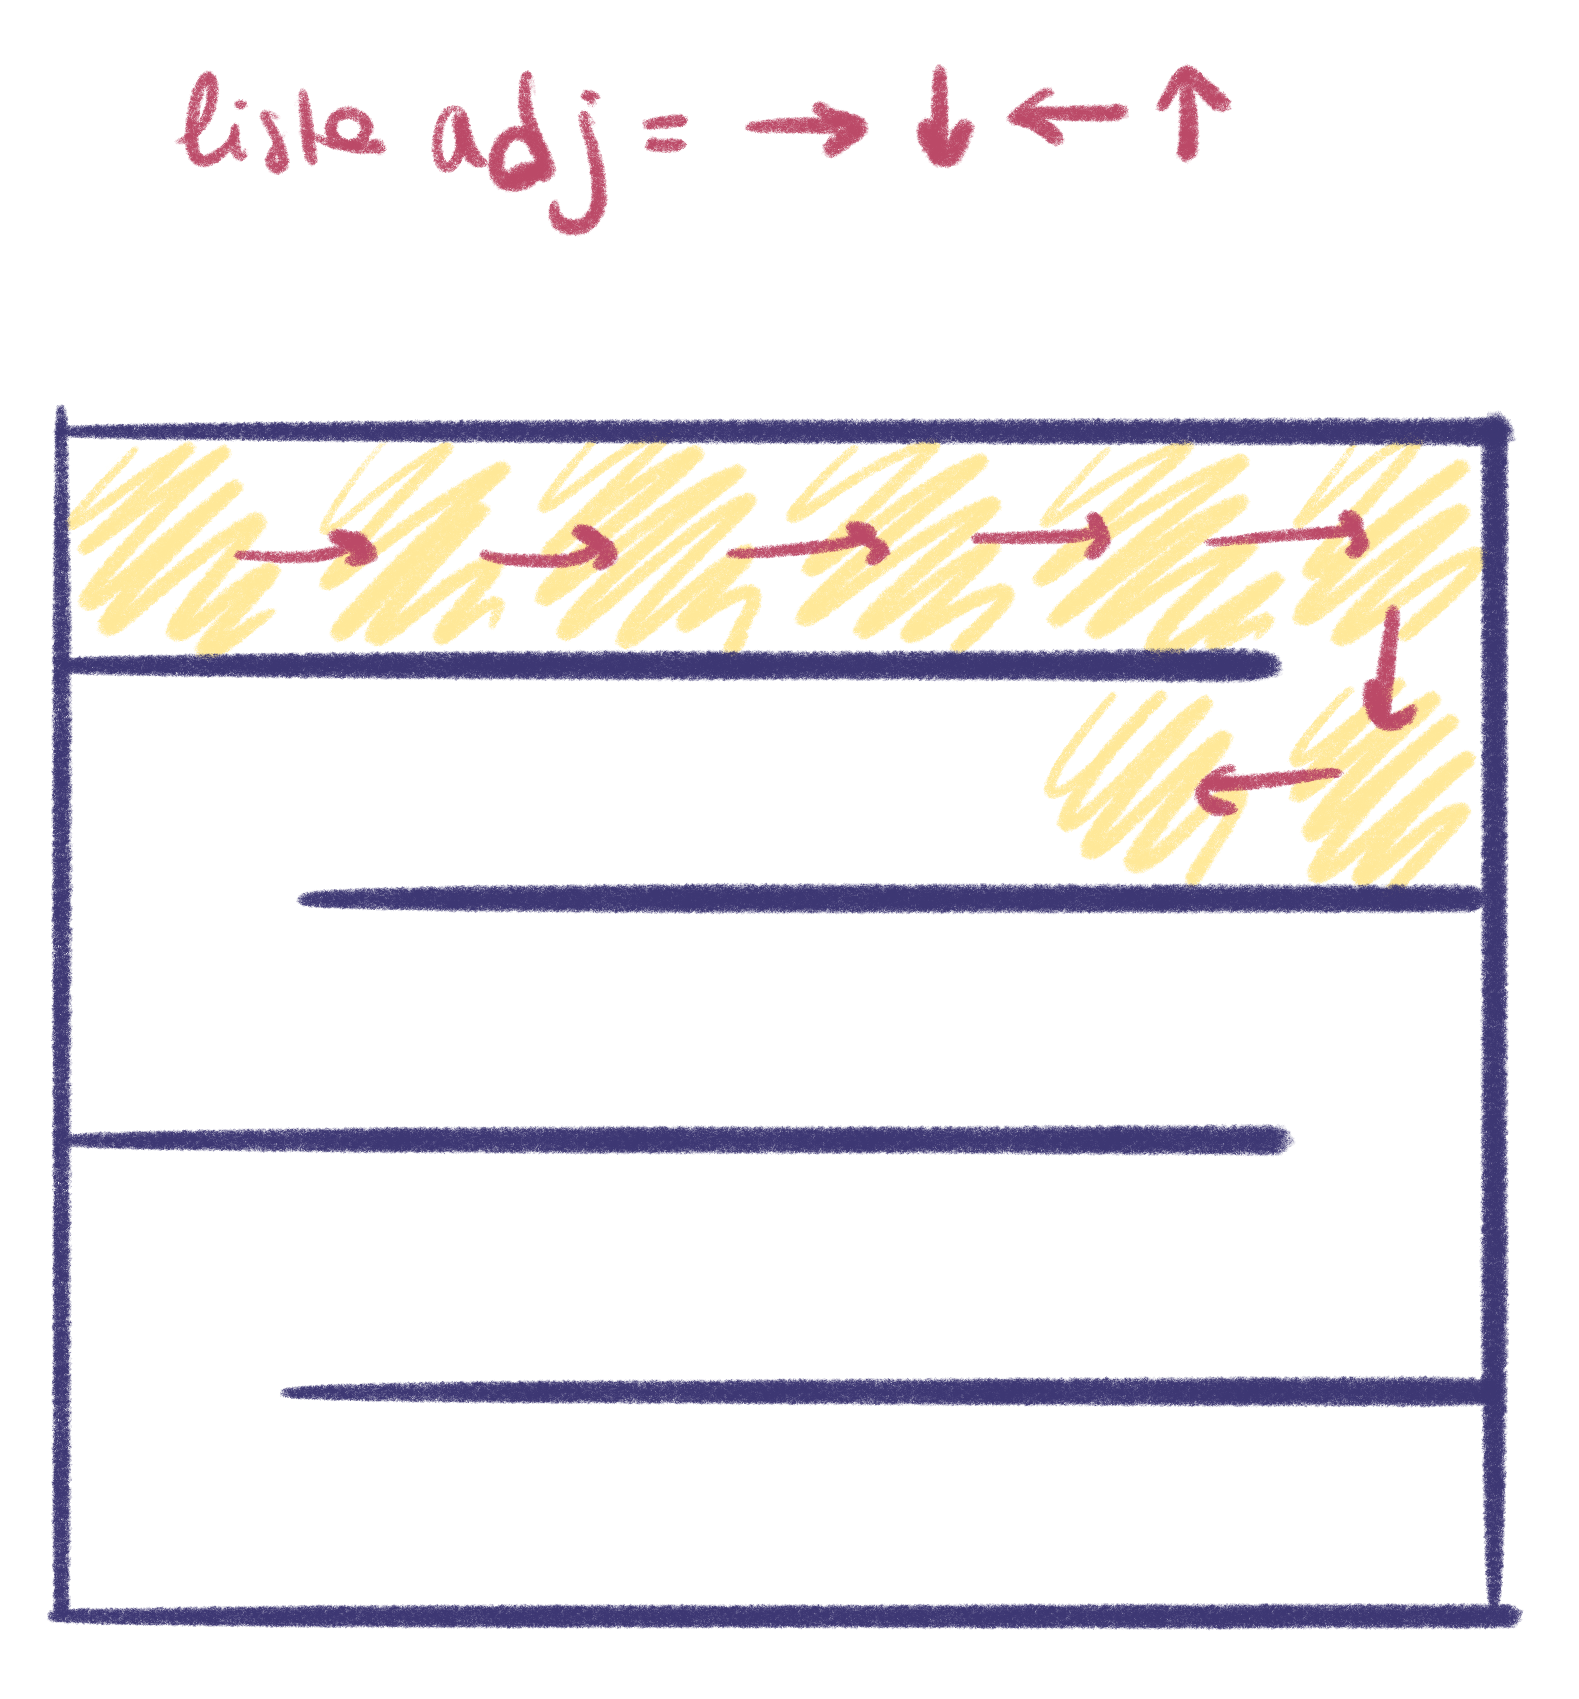
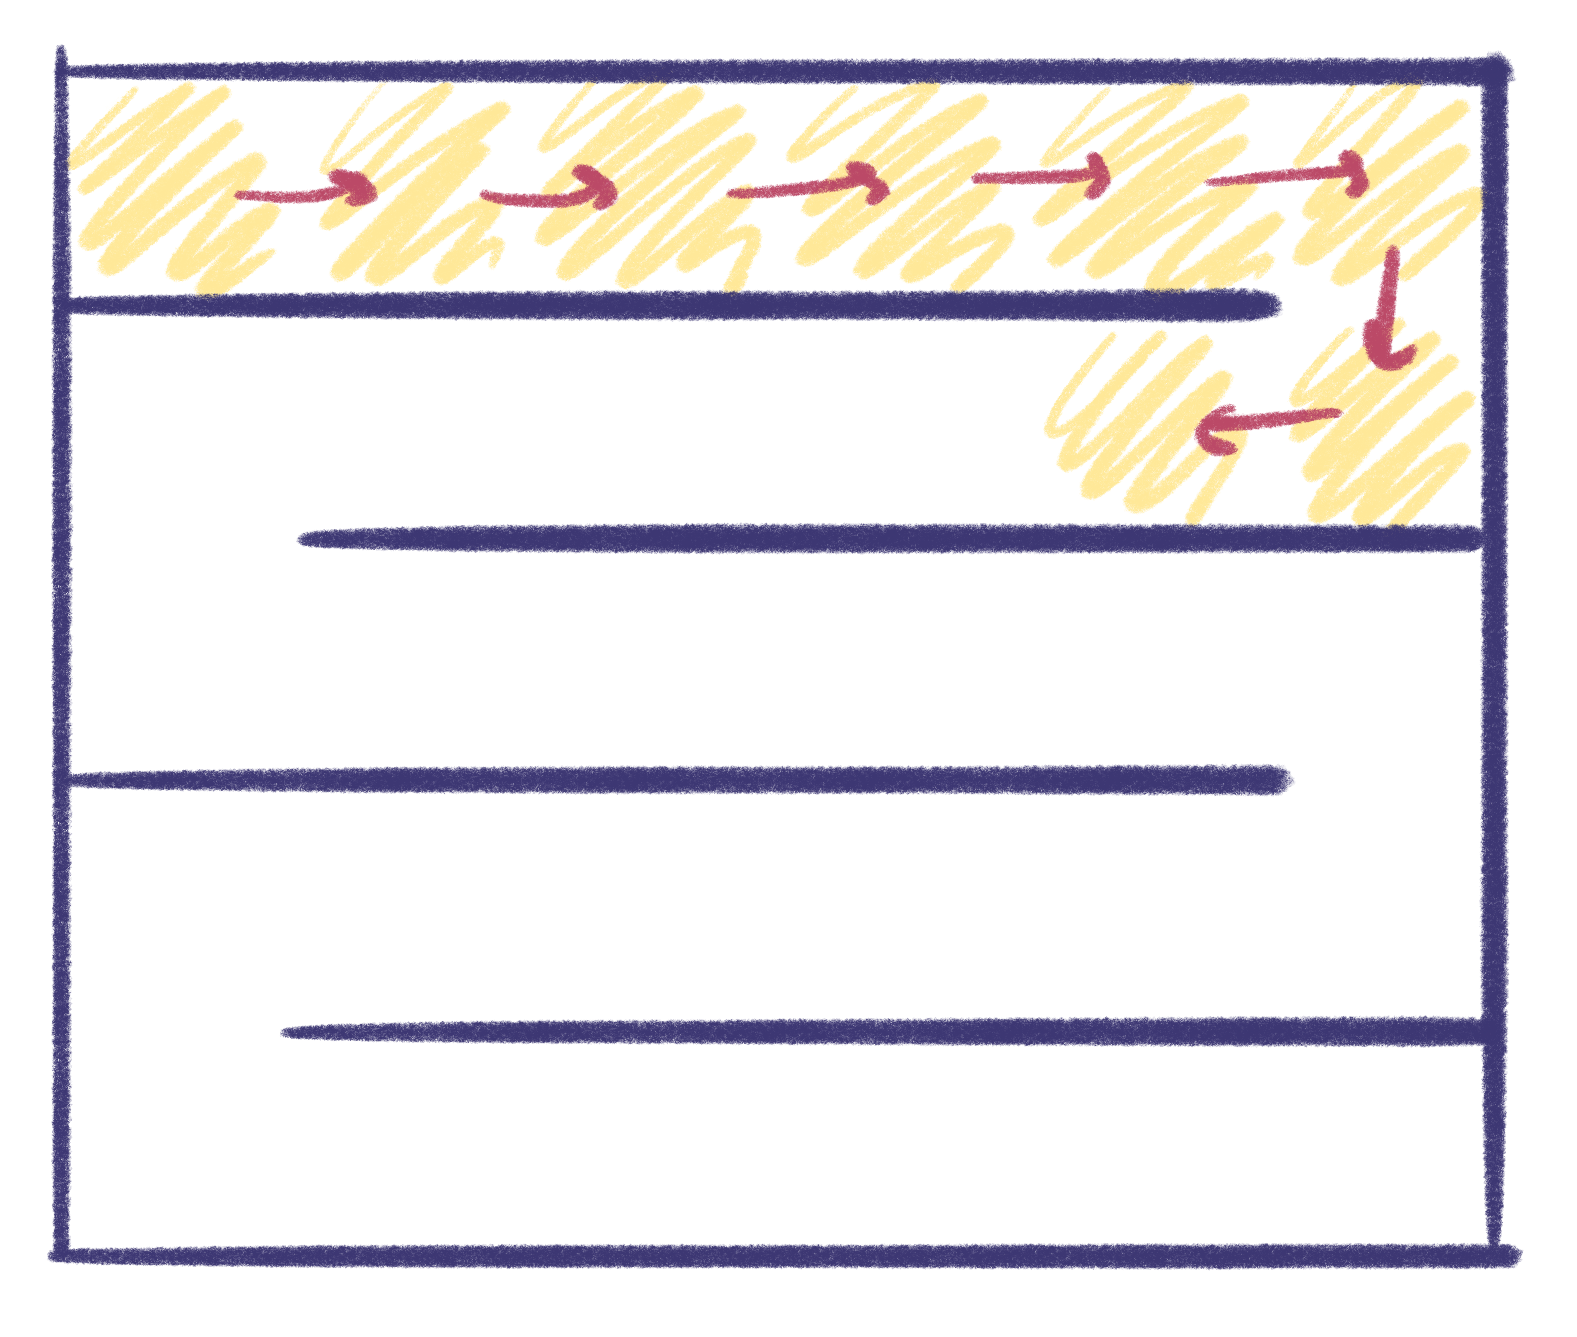
Updated presentation

diff --git a/src/main.cpp b/src/main.cpp
@@ -7,6 +7,7 @@
 #include "maze.h"
 #include "mazeGen.h"
 #include "mazeSolve.h"
+#include "vertex.h"
 
 using namespace std;
 
@@ -59,6 +60,29 @@ int main(int argc, char *argv[]) {
   int start;
   int finish;
   srand(time(NULL)); // initialize seed for maze generation
+
+  if (argc != 1 && *argv[1] == '0') { // just plain generation
+    delayGen = 0;
+    delayInBetween = 5000;
+
+    start = 1000;
+    finish = 0;
+    Maze m(50, 50);
+    m.initGrid(start, finish);
+    m.vertices[start].type = NONE;
+    m.vertices[finish].type = NONE;
+
+    thread drawMaze(draw, ref(m));
+
+    RandomDFS(m, 0);
+    m.resetMaze();
+    this_thread::sleep_for(chrono::milliseconds(delayInBetween));
+    m.addRandomLoops(1000);
+
+    drawMaze.join();
+
+    return 0;
+  }
 
   if (argc != 1 && *argv[1] == 'a') { // gen+solve w/delay
     delayGen = 1;

diff --git a/Presentazione/slides.md b/Presentazione/slides.md
@@ -48,11 +48,11 @@ struttura interna &rarr; **grafo non orientato come lista di adiacenza "potenzia
 - vertici = caselle
 - archi = passaggi tra le caselle
 - vettore di N*M vertici 
-- ogni vertice ha *almeno* 4 adiacenti, a parte i vertici al bordo &rarr; Bordo ben definito dalla connettività &#x2714;
+- ogni vertice ha *non più di* 4 adiacenti, a parte i vertici al bordo &rarr; Bordo ben definito dalla connettività &#x2714;
 
 **complessità spaziale:**
 - O(N*M) vettore di vertici
-- O(N\*M) lista di adiacenza "potenziale" come vettore di vettori (grado di ogni vertice $\leq$ 4\*N*M)
+- O(N\*M) lista di adiacenza "potenziale" come vettore di vettori (grado di ogni vertice $\leq$ 4)
 
 ---
 
@@ -78,6 +78,8 @@ struttura interna &rarr; **grafo non orientato come lista di adiacenza "potenzia
 --
 
 ### DFS non randomizzato
+
+lista di adiacenza = &rarr; &larr; &darr; &uarr;
 
 <img src="Longcorridor.png" width=50%>
 
@@ -172,7 +174,7 @@ WORST CASE:
         for adj in adjList(u) //con edge=OPEN
             costo = u.gTilde + w(u,adj) //u.gTilde = costo "so far" di u
 
-            // if adj non ancora espanso
+            // se adj non ancora espanso
             // o il nuovo costo passando per u è minore del precedente 
             if (adj.col=WHITE or costo < adj.gTilde):
                 adj.gTilde = costo;
@@ -252,7 +254,7 @@ Essendo stato applicato a un labirinto, ossia una struttura t.c. tutti i punti s
 
 ---
 
-## Definizione della funzione di stima $\tilde{f}$
+### Definizione della funzione $f$
 
 <!-- - $t\equiv$ vertice target 
 
@@ -260,7 +262,7 @@ Essendo stato applicato a un labirinto, ossia una struttura t.c. tutti i punti s
 
 <img src="Fn.png" width=30%>
 
-- $P*\equiv(m,n)$ percorso ottimo (di costo minimo) tra m ed n
+- $P*(m,n)\equiv$ percorso ottimo (di costo minimo) tra m ed n
 
 - $g(n)\equiv$ costo di P*(s,n)
 
@@ -272,7 +274,7 @@ Essendo stato applicato a un labirinto, ossia una struttura t.c. tutti i punti s
 
 ---
 
-## Definizione della funzione di stima $\tilde{f}$
+### Definizione della funzione di stima $\tilde{f}$
 
 **$f(n)=g(n)+h(n)$ &rarr; stimato $\tilde{f}(n)=\tilde{g}(n)+\tilde{h}(n)$**
 
@@ -331,18 +333,18 @@ Se $\tilde{h}(n) \leq h(n)$ $\forall n$, allora A* è ammissibile.
 
 --
 
-# Dimostrazione
+### Dimostrazione
 
 P.A. A* termina in t con $\tilde{f}(t)=\tilde{g}(t)>f(s)$.
 
 N.B. $f(s)=h(s)=g(t)$ costo P*(s,t) unconstrained
 
-Per il corollario prima della terminazione esiste n' APERTO su P* t.c. $\tilde{f}(n')\leq f(s) < \tilde{f}(t)$.
+Per il corollario, prima della terminazione esiste n' APERTO su P* t.c. $\tilde{f}(n')\leq f(s) < \tilde{f}(t)$.
 &rarr; n' dovrebbe essere espanso prima di t &rarr; impossibile che A* abbia terminato
 
 ---
 
-# Ottimalità di A* sotto euristica coerente
+## Ottimalità di A* sotto euristica coerente
 
 ---
 
@@ -368,6 +370,8 @@ $h(m,n) \geq d(m,n)$ &rarr; $h(m,n)+\tilde{h}(m) \geq d(m,n)+\tilde{h}(m) \geq \
 
 Vale $=$ sse A espande gli stessi nodi di A*
 
+Infatti per esempio A* con $\tilde{h}=0$ si riconduce a Dijkstra
+
 Per dimostrarlo si nota che sotto euristica coerente se un nodo n è già stato CHIUSO &rarr; è stato già trovato il P*(s,n) &rarr; $\tilde{g}(n)=g(n)$ &rarr; n non verrà mai riaperto.
 
 ---
@@ -390,7 +394,7 @@ Si dimostra che questa metrica è coerente.
 
 ---
 
-# Confronto tra i vari algoritmi
+<!--# Confronto tra i vari algoritmi
 
 Se si considerano diversi algoritmi, è facile vedere come effettivamente A* nel caso di aggiunta di loops, quindi riomogeneiizando in terreno visiti molti meno nodi a un costo però di Update e add nello heap. La sua efficacia è molto maggiore nel caso di grafi pesati e spazi più grandi senza troppi "ostacoli". Sicuramente visitando Dijkstra tanti nodi quanto BFS, e avendo stessa complessità di A* performa molto peggio.
 
@@ -400,7 +404,7 @@ nodo depth d
 
 Att a mettere coppie giuste + mettere vertice colore iniziale giusto!
 
----
+--->
 
 ### A* vs..
 
@@ -409,6 +413,8 @@ Att a mettere coppie giuste + mettere vertice colore iniziale giusto!
 ### ... BFS/Dijkstra
 
 <img src="BFS.png" width=40%>
+
+Viola &rarr; nodi esplorati
 
 ---
 
